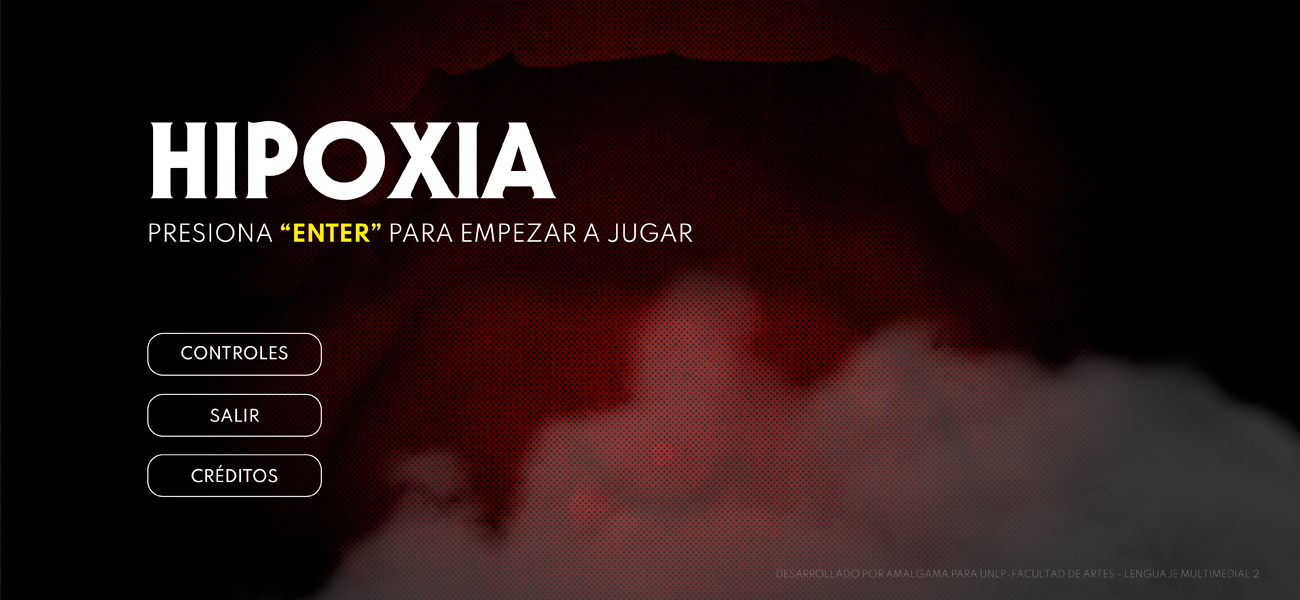
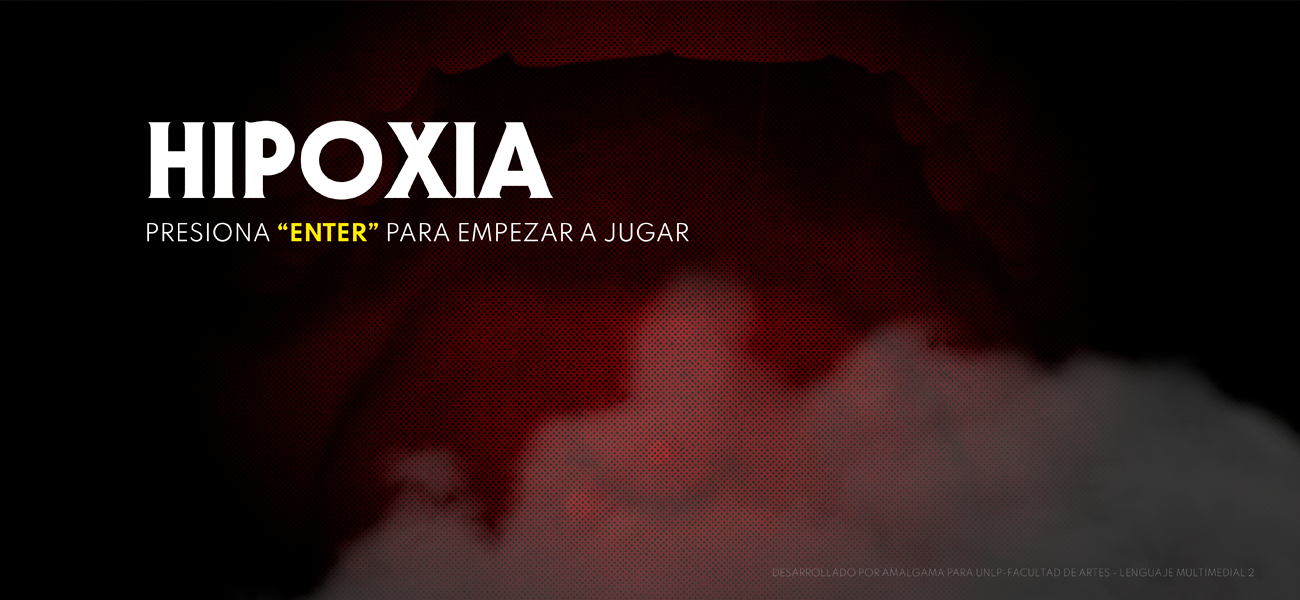
animacion+lluviaConstante

Changed region(s): [[0.0923, 0.0, 0.8, 1.0], [0.8615, 0.93, 0.9231, 0.96]]

diff --git a/v10/lmm2-tpfinal/sketch.js b/v10/lmm2-tpfinal/sketch.js
@@ -15,6 +15,7 @@ let hudBarra;
 //Clases
 let personaje;
 let escenario;
+let animacion;
 let obstaculos = [];
 let puntos = [];
 let lluvia = [];
@@ -31,10 +32,14 @@ function preload() {
   walkRight = loadAnimation("img/astro1.png", "img/astro2.png", "img/astro3.png");
   walkLeft = loadAnimation("img/astro6.png", "img/astro7.png", "img/astro8.png");
   picaranimacion = loadAnimation("img/astro4.png", "img/astro5.png");
+
+  //Comic
+  comic = loadImage("img/comic.png")
+
   //hud
   hudBarra = loadImage('img/hud.png');
   for(let i = 0;i<6;i++){
-    hudcara[i]=loadImage("img/hudcara"+i+".png");    
+    hudcara[i]=loadImage("img/hudcara"+i+".png");
   }
 
   //niveles
@@ -52,6 +57,7 @@ function preload() {
     rock[i]=loadImage("img/rock"+i+".png");
   }
   moco = loadImage('img/moco.png');
+  saliva=loadImage("img/saliva.png");
   //sonidos
   picar = loadSound("sound/picar.mp3");
   ruido = loadSound("sound/ruido.mp3");
@@ -67,10 +73,11 @@ function setup() {
   cantLluvia = 50;
   cantObstaculos = 10;
   cantPuntos = 3;
-
+  print(estado);
   //Declaro clases
   personaje = new Personaje();
   escenario = new Escenario();
+  animacion = new Animacion();
   hud = new Hud();
 
   for (let i = 0; i < cantObstaculos; i++) {
@@ -88,13 +95,14 @@ function setup() {
 
 function draw() {
   if (estado == "menu") {
-    image(menu,0,0);
+    escenario.menu();
     if (keyDown('ENTER')) {
-        estado="nivel1";
+      estado = "nivel1";
     }
-    if (mouseIsPressed) {
-      if (mouseX > width / 2 - 40 && mouseX < width / 2 + 40 && mouseY > height / 2 - 25 && mouseY < height / 2 + 25) estado = "nivel1";
-    }
+  }
+
+  if(estado=="animacion"){
+    animacion.display();
   }
 
   push()
@@ -116,7 +124,7 @@ function draw() {
     }
     escenario.nivel1();
     //obstaculos
-    
+
 
     for (let i = 0; i < cantPuntos; i++) {
       puntos[i].display();
@@ -144,7 +152,7 @@ function draw() {
     }
     if (keyDown('w')) {
       if(posx >3200 && posx<3300 && personaje.y < 280){
-        
+
         estado = "nivel2"
         personaje.reset();
         console.log(estado);
@@ -193,11 +201,11 @@ function draw() {
     for (let i = 0; i < cantPuntos; i++) {
       puntos[i].display();
     }
-    /*
+
     for (let i = 0; i < cantObstaculos; i++) {
       obstaculos[i].display();
     }
-    */
+
     //Cursor
     fill(20);
     ellipse(mouseX + posx, mouseY, 5, 5);
@@ -220,7 +228,6 @@ function draw() {
   }
 
   if (estado == "nivel3") {
-
     //efecto movimiento camara
     if(posx<2600){
       translate(-posx, 0);
@@ -237,7 +244,9 @@ function draw() {
     personaje.draw();
     personaje.mover();
     personaje.pegado();
-
+    for (let i = 0; i < cantObstaculos; i++) {
+      obstaculos[i].display();
+    }
     //Cursor
     fill(20);
     ellipse(mouseX + posx, mouseY, 5, 5);
@@ -299,7 +308,7 @@ function draw() {
     }
   }
 
-  
+
 
 
 

diff --git a/v10/lmm2-tpfinal/escenario.js b/v10/lmm2-tpfinal/escenario.js
@@ -1,6 +1,75 @@
 class Escenario {
   constructor() {
+    this.hover = false;
+    this.hover2=false;
+  }
 
+  menu() {
+    image(menu, 0, 0);
+
+    push();
+    noFill();
+    stroke(255);
+    rectMode(CENTER);
+    rect(225, height / 2 + 100, 150, 50, 10);
+
+    fill(255);
+    textAlign(CENTER, CENTER);
+    textStyle(NORMAL);
+    strokeWeight(0);
+    textSize(16);
+    text("CONTROLES", 225, height / 2 + 100);
+    pop();
+    if (this.hover == true) {
+      fill(255);
+      rectMode(CENTER);
+      noStroke();
+      rect(225, height / 2 + 100, 150, 50, 10);
+      fill(0);
+      textAlign(CENTER, CENTER);
+      textStyle(NORMAL);
+      textSize(16);
+      text("CONTROLES", 225, height / 2 + 100);
+    }
+
+
+    push();
+    noFill();
+    stroke(255);
+    rectMode(CENTER);
+    rect(225, height / 2 + 170, 150, 50, 10);
+
+    fill(255);
+    textAlign(CENTER, CENTER);
+    textStyle(NORMAL);
+    strokeWeight(0);
+    textSize(16);
+    text("CRÉDITOS", 225, height / 2 + 170);
+    pop();
+    if (this.hover2 == true) {
+      fill(255);
+      rectMode(CENTER);
+      noStroke();
+      rect(225, height / 2 + 170, 150, 50, 10);
+      fill(0);
+      textAlign(CENTER, CENTER);
+      textStyle(NORMAL);
+      textSize(16);
+      text("CRÉDITOS", 225, height / 2 + 170);
+    }
+
+    this.hover = false;
+    this.hover2=false;
+    if (mouseX > 255 - (150/2) && mouseX < 255 + (150/2) && mouseY > height / 2 + 100 - 50/2 && mouseY < height / 2 + 100 + 50/2) {
+      this.hover = true;
+      //estado="controles"
+    }
+    if (mouseX > 255 - (150/2) && mouseX < 255 + (150/2) && mouseY > height / 2 + 170 - 50/2 && mouseY < height / 2 + 170 + 50/2) {
+      this.hover2 = true;
+      //estado="creditos"
+    }
+    fill(255);
+    ellipse(mouseX, mouseY, 5, 5);
   }
 
   nivel1() {
@@ -9,14 +78,14 @@ class Escenario {
     //image(bg, width * 2, 0);
     //image(walls, 0, 0);
   }
-  
-  nivel2(){
+
+  nivel2() {
     image(bg2, 0, 0);
   }
-  nivel3(){
+  nivel3() {
     image(bg3, 0, 0);
   }
-  nivel4(){
+  nivel4() {
     image(bg4, 0, 0);
   }
 

diff --git a/v10/lmm2-tpfinal/hud.js b/v10/lmm2-tpfinal/hud.js
@@ -10,9 +10,9 @@ class Hud {
 
   display() {
     this.tiempo++;
-    this.mapeo = map(this.tiempo, 0, this.limite, 0, this.ancho); 
+    this.mapeo = map(this.tiempo, 0, this.limite, 0, this.ancho);
 
-    fill(255, 150);    
+    fill(255, 150);
     rect(this.x+80, this.y, this.ancho - this.mapeo, 33, 10);
 
     fill(0);
@@ -30,30 +30,30 @@ class Hud {
   hudImagenes(){
 
     if(this.tiempo < 1000){
-      console.log('0');    
+      console.log('0');
       image(hudcara[0],this.x,this.y-18);
     }
     if(this.tiempo > 1000 && this.tiempo < 2000){
-      console.log('1');    
+      console.log('1');
       image(hudcara[1],this.x,this.y-18);
     }
     if(this.tiempo > 2000 && this.tiempo < 3000){
-      console.log('2');    
+      console.log('2');
       image(hudcara[2],this.x,this.y-18);
     }
     if(this.tiempo > 3000 && this.tiempo < 4000){
-      console.log('3');    
+      console.log('3');
       image(hudcara[3],this.x,this.y-18);
     }
     if(this.tiempo > 4000 && this.tiempo < 4500){
-      console.log('4');    
+      console.log('4');
       image(hudcara[4],this.x,this.y-18);
     }
     if(this.tiempo > 4500 && this.tiempo < 5000){
-      console.log('5');    
+      console.log('5');
       image(hudcara[5],this.x,this.y-18);
     }
-    
+
   }
 
   reset(){

diff --git a/v10/lmm2-tpfinal/lluvia.js b/v10/lmm2-tpfinal/lluvia.js
@@ -1,7 +1,7 @@
 class Lluvia {
   constructor() {
     //Posicion de la lluvia
-    this.x = random(width * 3, width * 5);
+    this.x = random(width * 3, width * 7);
     this.y = random(40, height - 40);
     //Velocidad
     this.speed = random(8, 10);
@@ -9,6 +9,7 @@ class Lluvia {
     this.tam = random(8, 15);
     //Variable boolean para dibujar o no a la lluvia
     this.hide = false;
+    this.show=false;
   }
 
   display() {
@@ -22,7 +23,11 @@ class Lluvia {
   llover() {
     if (this.x > 0) {
       //Si el personaje pasa este limite (width*1,5) sale una ráfaga de lluvia
-      if (personaje.x > width * 1.5) {
+      if(personaje.x>width*1.5){
+        this.show=true;
+      }
+
+      if (this.show==true) {
         if (this.hide == false) {
           this.x = this.x - this.speed;
         }
@@ -30,7 +35,7 @@ class Lluvia {
     } else {
       //La lluvia vuelve a su lugar original y se oculta cuando llega al final del nivel (width=0).
       this.x = random(width * 3, width * 3.6);
-      this.hide = true;
+      this.hide = false;
     }
   }
 

diff --git a/v10/lmm2-tpfinal/animacion.js b/v10/lmm2-tpfinal/animacion.js
@@ -1,0 +1,46 @@
+class Animacion {
+  constructor() {
+    this.tiempo=0;
+    this.x=0;
+    this.y=-25;
+    this.velocidad=6;
+  }
+
+  display() {
+
+    this.tiempo+=0.05;
+    image(comic,this.x,this.y);
+    fill(0);
+    text(this.tiempo,10,50);
+    //FADE IN
+    //fill(255,100);
+    //rect(0,0,1300,600);
+
+    //LINEA SUPERIOR
+    if(this.tiempo<8){
+      this.x=0;
+    }if(this.tiempo>8&&this.tiempo<19.5){
+      this.x-=this.velocidad;
+    }
+    if(this.tiempo>27&&this.tiempo<27+11){
+      this.x-=this.velocidad;
+    }
+
+    //LINEA INFERIOR
+    if(this.tiempo>45 && this.tiempo<45+10){
+      this.x+=this.velocidad+7.5;
+      this.y-=this.velocidad-2.8;
+    }
+    if(this.tiempo>60 && this.tiempo<60+11.5){
+      this.x-=this.velocidad;
+    }
+    if(this.tiempo>78 && this.tiempo<78+11.1){
+      this.x-=this.velocidad;
+    }
+    if(this.tiempo>100){
+      this.tiempo=100;
+      estado = "nivel1";
+    }
+  }
+
+}

diff --git a/v10/lmm2-tpfinal/obstaculos.js b/v10/lmm2-tpfinal/obstaculos.js
@@ -7,10 +7,18 @@ class Obstaculos {
   }
 
   display() {
-    //rect(this.x, this.y, moco.width, moco.height);
-    image(moco, this.x, this.y)
+
+    if(estado=="nivel1"){
+      image(moco, this.x, this.y);
+    }
+    else if(estado=="nivel2"){
+      image(saliva, this.x, this.y);
+    }
+    else if(estado=="nivel3"){
+      image(saliva, this.x, this.y);
+    }
+
   }
   reset(){
-    obstaculos = [];
   }
 }

diff --git a/v10/lmm2-tpfinal/index.html b/v10/lmm2-tpfinal/index.html
@@ -25,6 +25,9 @@
   <script src="puntos.js"></script>
   <script src="lluvia.js"></script>
   <script src="hud.js"></script>
+  <script src="menu.js"></script>
+  <script src="animacion.js"></script>
+
 
 
 </head>
